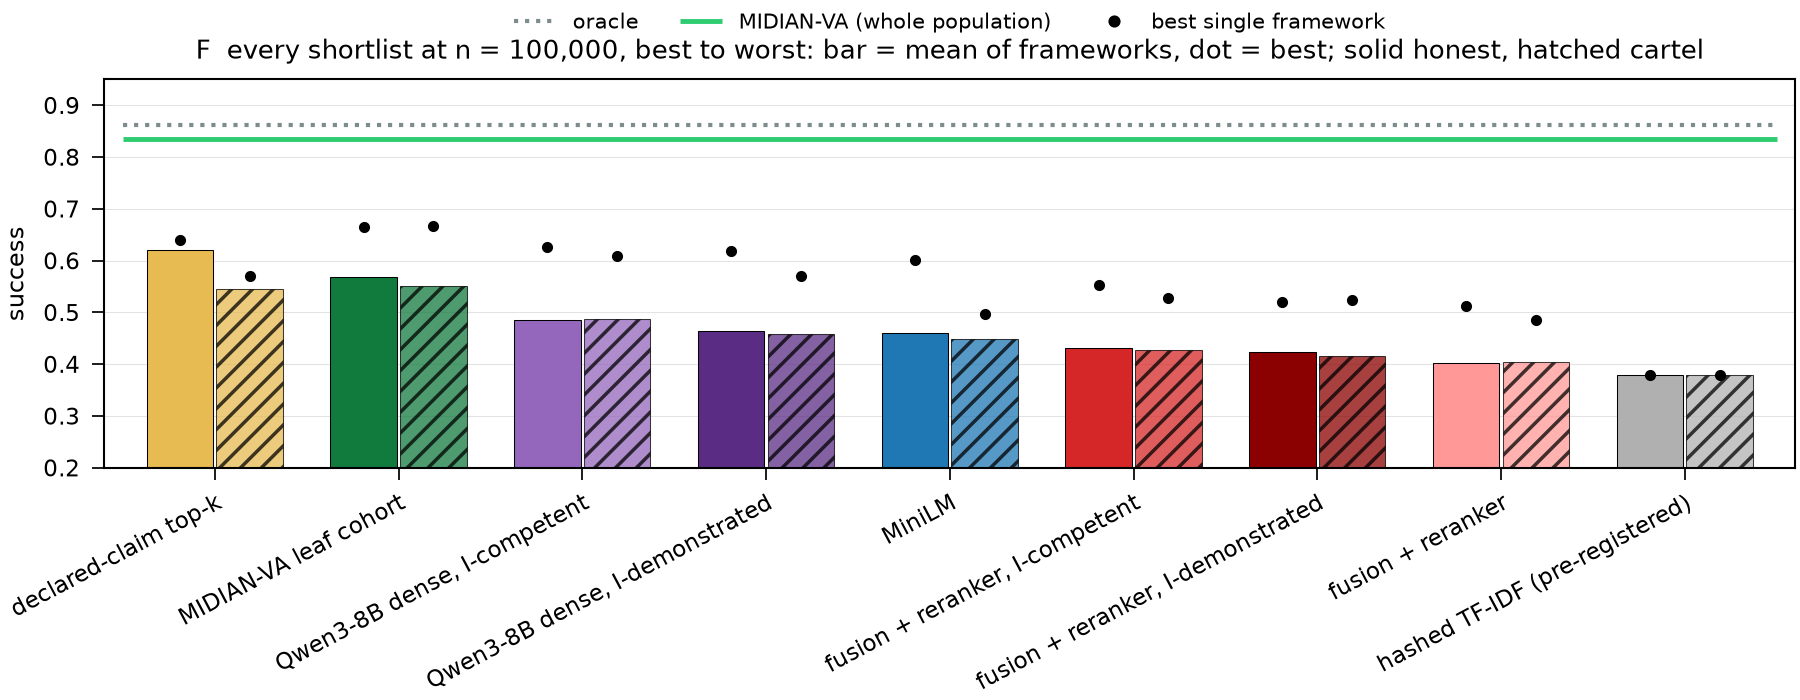
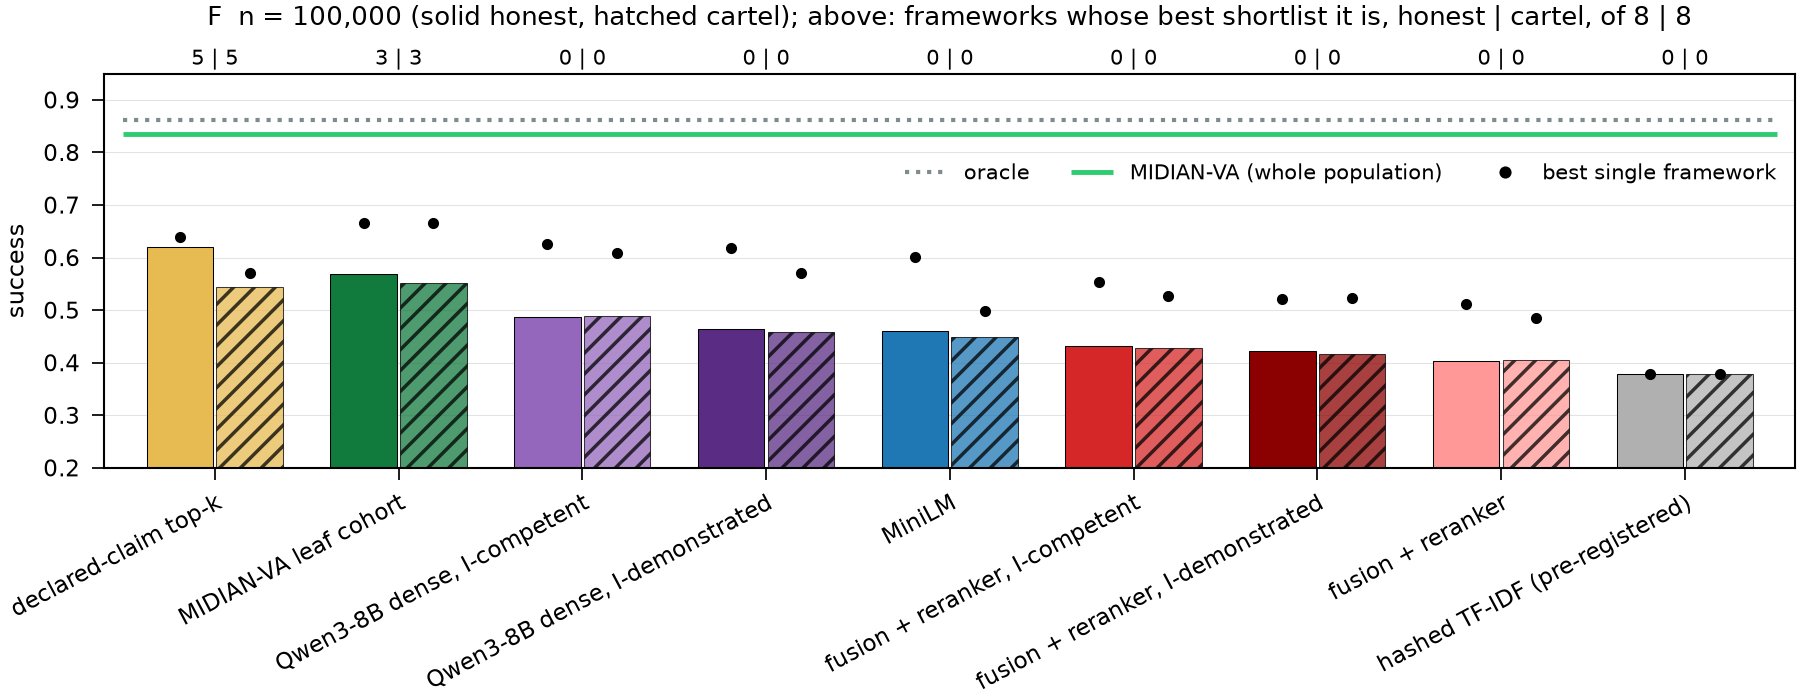
condensed F: per-shortlist tally of frameworks whose best shortlist it is (only frameworks with every shortlist)

diff --git a/scripts/shortlist_condensed.py b/scripts/shortlist_condensed.py
@@ -80,22 +80,40 @@ def fig_E(s, ref):
         "E  frameworks by shortlist (live, specialist): bar = mean of frameworks; solid honest, hatched cartel; * = not in yet", "E_shortlists_by_n", 6)
 
 
+def tally(n):
+    """(regime, shortlist) -> how many frameworks get their BEST result (highest seed mean) from that shortlist at n."""
+    d = load(); fw = d[(d.shortlist != "-") & (d.n == n) & (d.shortlist.isin(MAIN))]
+    have = fw.groupby(["regime", "arm"]).shortlist.nunique(); full = fw.groupby("regime").shortlist.nunique()
+    keep = [(r, a) for (r, a), k in have.items() if k == full[r]]          # only frameworks with EVERY shortlist in the regime
+    fw = fw.set_index(["regime", "arm"]).loc[keep].reset_index()
+    best = fw.loc[fw.groupby(["regime", "arm"])["mean"].idxmax()]
+    out = best.groupby(["regime", "shortlist"]).size().to_dict()
+    out["_k"] = {r: sum(1 for rr, _ in keep if rr == r) for r in REG}
+    return out
+
+
 def fig_F(s, ref, n=100000):
     """x = shortlist at one n, sorted by the honest mean; the ticks name the shortlists."""
     q = s[s.n == n]; order = q[q.regime == "beta0"].sort_values("mean", ascending=False).shortlist.tolist()
     fig, ax = plt.subplots(figsize=(7.2, 2.8)); w = 0.38
-    for i, src in enumerate(order): pair(ax, i, w, q[q.shortlist == src].set_index("regime"), src, None)
+    wins = tally(n)
+    for i, src in enumerate(order):
+        pair(ax, i, w, q[q.shortlist == src].set_index("regime"), src, None)
+        ax.text(i, 1.01, f"{wins.get(('beta0', src), 0)} | {wins.get(('cartel', src), 0)}", transform=ax.get_xaxis_transform(),
+                ha="center", va="bottom", fontsize=6)
     lines(ax, ref, n, -0.5, len(order) - 0.5, True)
     ax.plot([], [], "o", ms=2.5, color="black", label="best single framework")
     ax.set_xticks(range(len(order))); ax.set_xticklabels([NAME[x] for x in order], rotation=28, ha="right", rotation_mode="anchor")
     ax.set_xlim(-0.6, len(order) - 0.4)
-    finish(ax, fig, q, f"F  every shortlist at n = {n:,}, best to worst: bar = mean of frameworks, dot = best; solid honest, hatched cartel", "F_shortlists_1e5", 3)
+    finish(ax, fig, q, f"F  n = {n:,} (solid honest, hatched cartel); above: frameworks whose best shortlist it is, "
+                f"honest | cartel, of {wins['_k']['beta0']} | {wins['_k']['cartel']}", "F_shortlists_1e5", 3, inside=True)
 
 
-def finish(ax, fig, s, title, name, ncol):
+def finish(ax, fig, s, title, name, ncol, inside=False):
     ax.set_ylim(0.2, 0.95); ax.set_ylabel("success"); ax.grid(axis="y", lw=0.3, alpha=0.35); ax.set_axisbelow(True)
-    ax.set_title(title)
-    ax.legend(ncol=ncol, frameon=False, loc="lower center", bbox_to_anchor=(0.5, 1.07))
+    ax.set_title(title, pad=14 if inside else 6)
+    if inside: ax.legend(ncol=ncol, frameon=False, loc="upper right", bbox_to_anchor=(1.0, 0.82))   # the band between bars and lines
+    else: ax.legend(ncol=ncol, frameon=False, loc="lower center", bbox_to_anchor=(0.5, 1.07))
     fig.savefig(f"{OUT}/{name}.png", dpi=250); fig.savefig(f"{OUT}/{name}.pdf"); plt.close(fig); print(f"[{name}] written")
     s.to_csv(f"{OUT}/{name}.csv", index=False)
 
